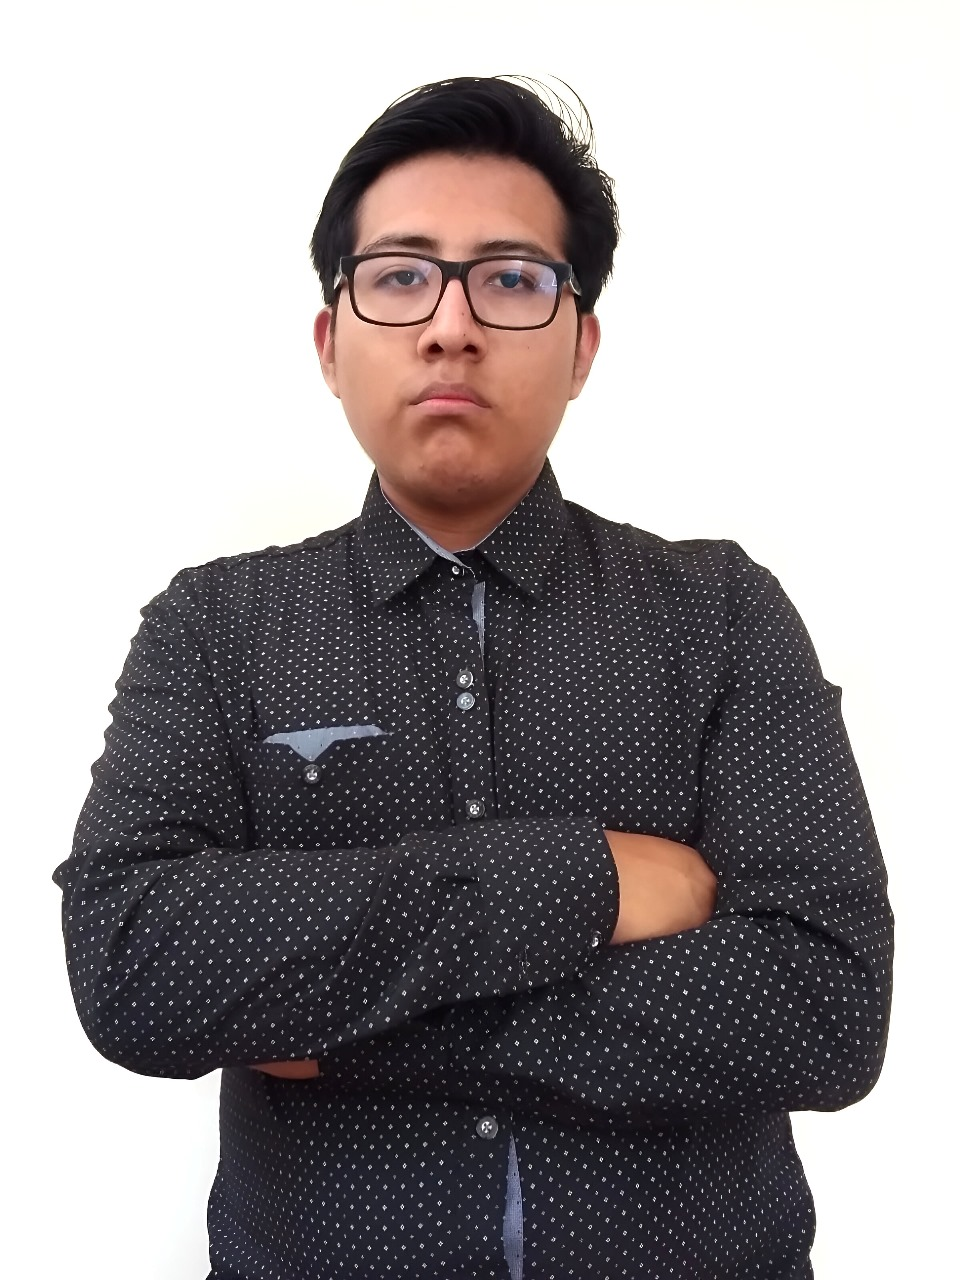
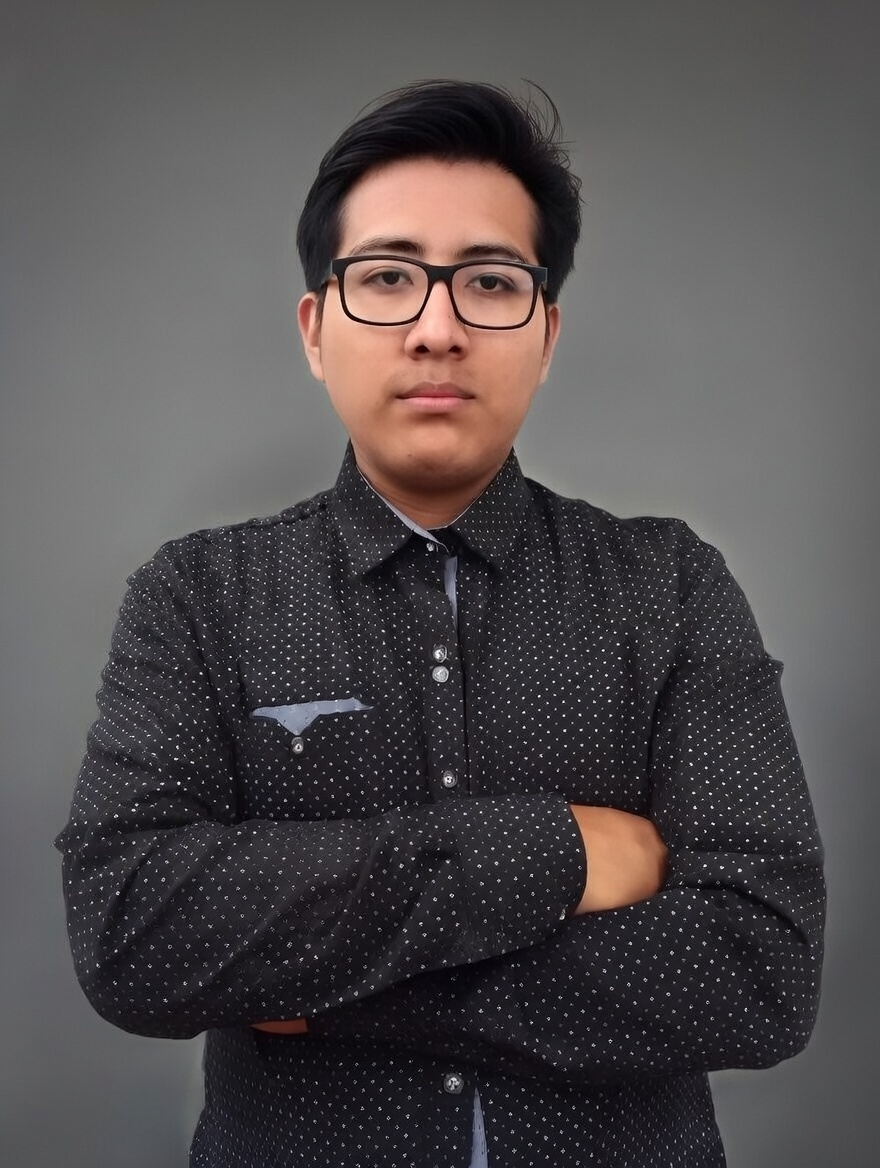
change photo

diff --git a/index.html b/index.html
@@ -68,7 +68,7 @@
             height: 180px;
             border-radius: 50%;
             object-fit: cover;
-            object-position: center;
+            object-position: top;
             /* Ensure centered */
             border: 4px solid #f59e0b;
             /* Golden Border */
